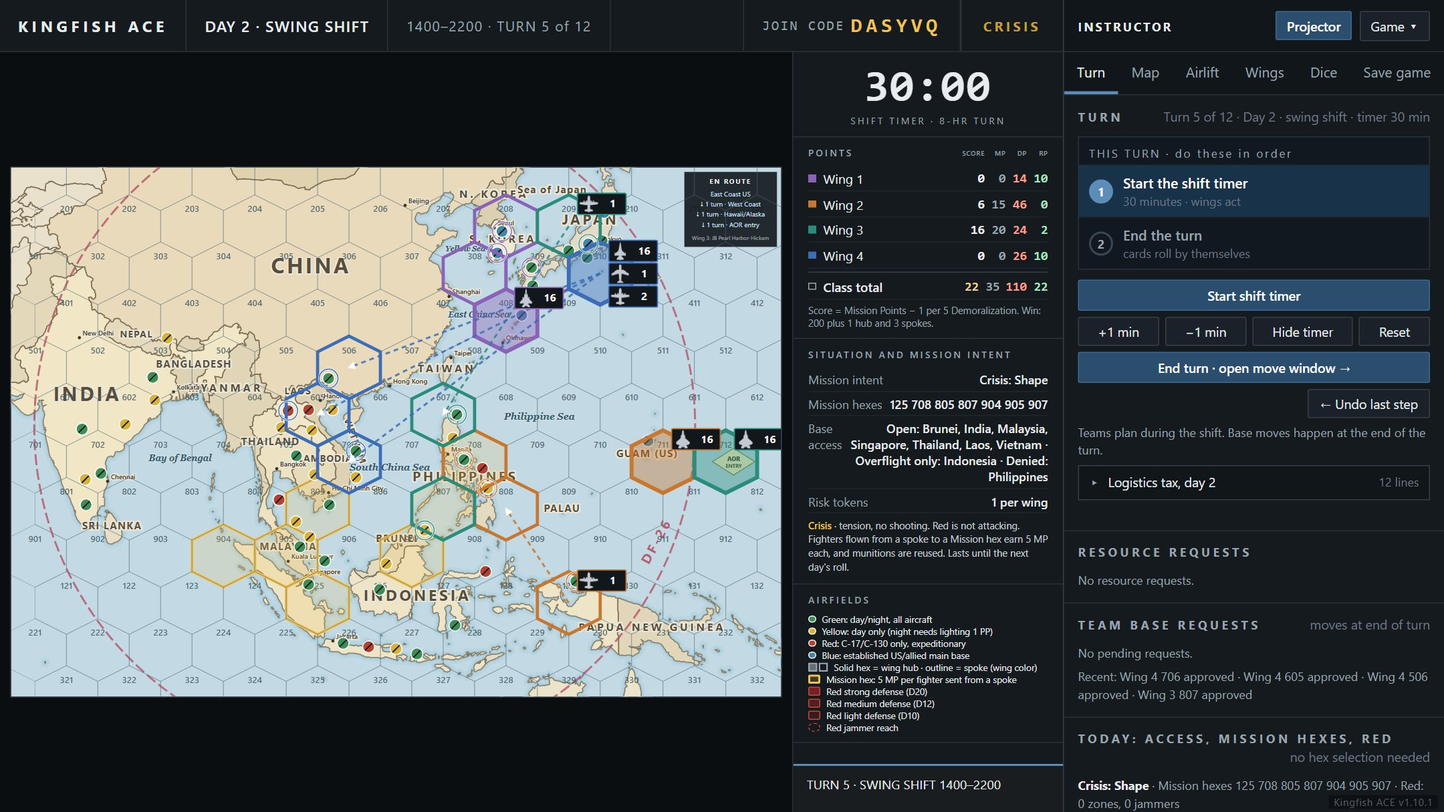
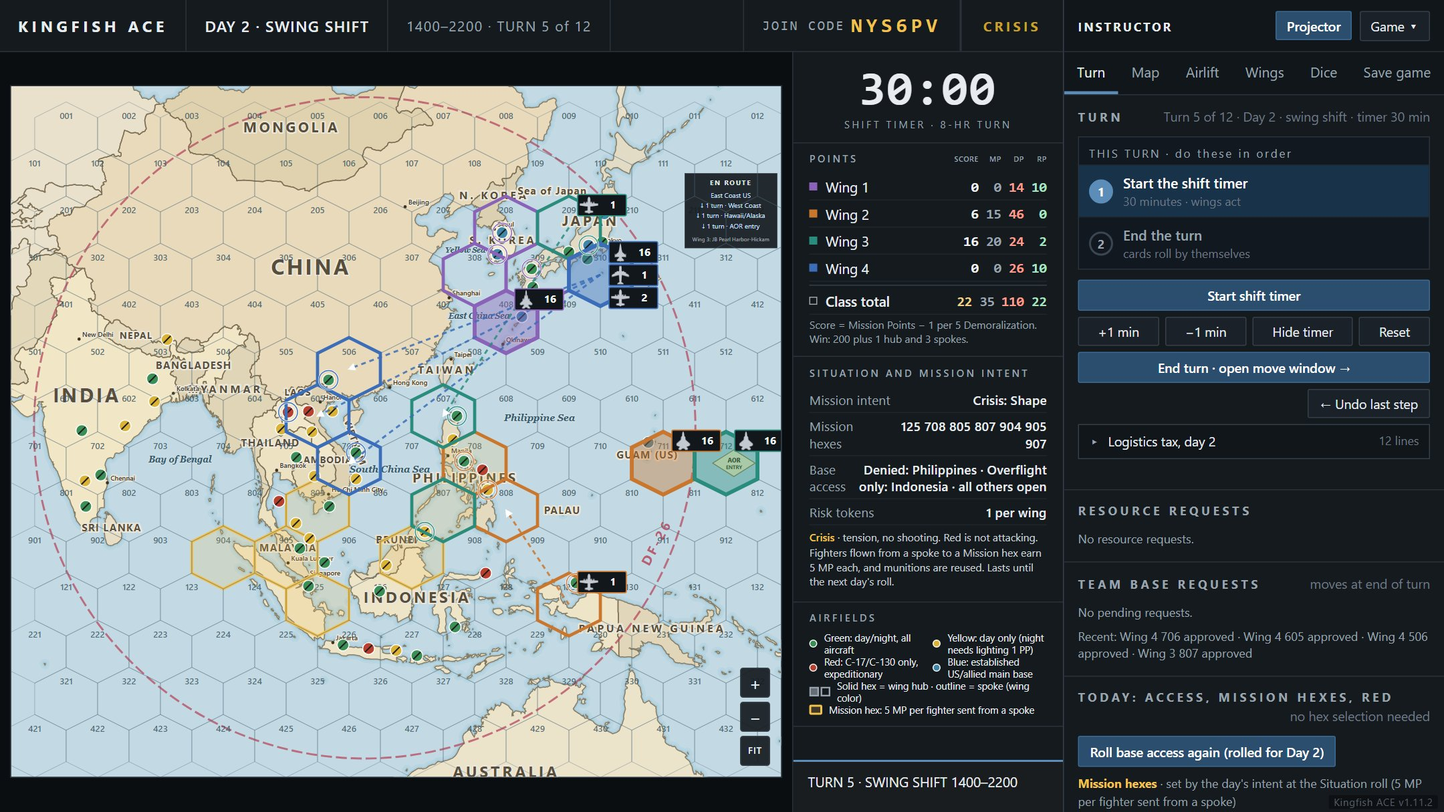
v1.11.2: declutter, taller instructor map, map key shows only what applies, new screenshots

diff --git a/g-c8c17171b7af6006.html b/g-c8c17171b7af6006.html
@@ -646,6 +646,8 @@ button:focus,.btn:focus{outline:none}button:focus-visible,.btn:focus-visible,sum
 .stabs button.kp,.ptabs button.kp,.rtabs button.kp,.wtabs button.kp,.zctl button.kp{background:#1F3347!important;color:#fff!important;transform:none!important;box-shadow:inset 0 -3px 0 #6FA3D1!important}
 .rl.kp{background:#22405C!important;transform:translateY(1px)}
 [onclick]:not(button):not(.btn):not(.rl).kp{filter:brightness(1.4);transform:translateY(1px)}
+#i-movehint,#i-today{display:none!important}
+.side .sbox.legend{display:grid;grid-template-columns:1fr 1fr;gap:0 12px;align-content:start}.side .sbox.legend>h4,.side .sbox.legend>.lgd,.side .sbox.legend>div:nth-child(6){grid-column:1/-1}.side .sbox.legend>div{min-width:0}
 </style>
 </head>
 <body>
@@ -998,7 +1000,7 @@ const TEAMS=[{id:'alpha',n:'Wing 1',full:'Kadena Air Base',hub:'Kadena AB',c:'#8
 const TM=Object.fromEntries(TEAMS.map(t=>[t.id,t]));
 const VIS=()=>TEAMS.filter(t=>S.show[t.id]!==false);   // wings shown on the projector board
 const SHIFTS=[['DAY SHIFT','0600–1400'],['SWING SHIFT','1400–2200'],['MID SHIFT','2200–0600']];
-const APP_VER='1.11.1';   // shown on every screen; bump on each release
+const APP_VER='1.11.2';   // shown on every screen; bump on each release
 const CLOCK_MIN=t=>(S&&S.timerMin)||30;     // owner 11-09: 30-minute turns by default; Game setup can change it
 const INTENT={crisis:[['Observe','708 805 807 905 907'],['Assure','308 309 705 706 805 905'],['Shape','125 708 805 807 904 905 907'],['Persuade','805 806 906 907']],
               conflict:[['Deter','308 309 705 706 805 905'],['Subdue','806 906'],['Compel','125 805 806 906'],['Eradicate','407 507 606']]};
@@ -1412,13 +1414,14 @@ function kimgDefs(){ if(__kdefs) return __kdefs; let s='', c='.kimg{display:inli
 //       by GPU transform, never redrawn, so zooming never blinks.
 const ZCTL='<div class="zctl" data-k="zctl"><button onclick="zoomBy(1.4)" title="Zoom in (+)">+</button><button onclick="zoomBy(1/1.4)" title="Zoom out (-)">&minus;</button><button class="zf" onclick="zoomFit()" title="Fit the whole map (0)">FIT</button></div>';
 const Z={k:1,x:0,y:0};
-function zre(){ document.querySelectorAll('.mstack').forEach(ms=>{ ms.__fitz=1; const v=Z.k===1&&!Z.x&&!Z.y?'':`translate(${Z.x.toFixed(1)}px,${Z.y.toFixed(1)}px) scale(${Z.k.toFixed(3)})`; if(ms.style.transform!==v) ms.style.transform=v; }); }
+function zre(){ document.querySelectorAll('.mstack').forEach(ms=>{ { const box=ms.parentElement, zc=box&&box.querySelector('.zctl'); if(zc){ const r=Math.max(8,box.clientWidth-(ms.offsetLeft+ms.offsetWidth)+12)+'px', b=Math.max(8,box.clientHeight-(ms.offsetTop+ms.offsetHeight)+12)+'px'; if(zc.style.right!==r) zc.style.right=r; if(zc.style.bottom!==b) zc.style.bottom=b; } } /* controls sit on the map's own corner */  ms.__fitz=1; const v=Z.k===1&&!Z.x&&!Z.y?'':`translate(${Z.x.toFixed(1)}px,${Z.y.toFixed(1)}px) scale(${Z.k.toFixed(3)})`; if(ms.style.transform!==v) ms.style.transform=v; }); }
 window.__zre=zre;
 function zClamp(ms){ const w=ms.offsetWidth, h=ms.offsetHeight; Z.x=Math.min(0,Math.max(w-w*Z.k,Z.x)); Z.y=Math.min(0,Math.max(h-h*Z.k,Z.y)); }
 function zApply(){ zre(); uiSave(); }
 function zoomAt(ms,cx,cy,f){ const r=ms.getBoundingClientRect(), l0=r.left-Z.x, t0=r.top-Z.y, px=cx-l0, py=cy-t0, k2=Math.max(1,Math.min(6,Z.k*f)); if(k2===Z.k) return; Z.x=px-(px-Z.x)*(k2/Z.k); Z.y=py-(py-Z.y)*(k2/Z.k); Z.k=k2; zClamp(ms); zApply(); }
 function zoomBy(f){ const box=document.querySelector('.mapbox'), ms=box&&box.querySelector('.mstack'); if(!ms) return; const b=box.getBoundingClientRect(); zoomAt(ms,b.left+b.width/2,b.top+b.height/2,f); }
 function zoomFit(){ Z.k=1; Z.x=0; Z.y=0; zApply(); }
+addEventListener('resize',()=>{ try{ zre(); }catch(x){} });
 addEventListener('wheel',e=>{ const box=e.target.closest&&e.target.closest('.mapbox'), ms=box&&box.querySelector('.mstack'); if(!ms) return; e.preventDefault(); zoomAt(ms,e.clientX,e.clientY,Math.exp(-e.deltaY*0.0016)); },{passive:false});
 let __zp=null, __zMoved=false;
 addEventListener('pointerdown',e=>{ const box=e.target.closest&&e.target.closest('.mapbox'), ms=box&&box.querySelector('.mstack'); if(!ms||e.target.closest('.zctl')) return; if(!(e.button===1||(e.button===0&&Z.k>1))) return; __zp={box,ms,sx:e.clientX,sy:e.clientY,x:Z.x,y:Z.y,on:false}; __zMoved=false; if(e.button===1) e.preventDefault(); },true);
@@ -1434,9 +1437,9 @@ function uiLoad(){ try{ return JSON.parse(localStorage.getItem(UIKEY)||'null'); 
 { const u=uiLoad(); if(u&&u.z&&u.z.k>=1&&u.z.k<=6){ Z.k=u.z.k; Z.x=u.z.x||0; Z.y=u.z.y||0; } }
 // R10.17 Window titles name the role and the turn, so windows are easy to tell apart on the taskbar.
 setInterval(()=>{ try{ if(MODE==='login') return; const role=MODE==='instructor'?'Instructor':MODE==='projector'?'Projector':(typeof WING_ID!=='undefined'&&WING_ID&&TM[WING_ID]?TM[WING_ID].n:'Wing'); const tt=`Kingfish ACE · ${role} · ${S.opening?'Planning':`Turn ${S.turn} of ${S.turns}`}`; if(document.title!==tt) document.title=tt; uiSave(); }catch(e){} },1000);
-function ensureStatic(doc){ try{ if(!doc||doc.getElementById('kfa-static')) return; const d=doc.createElement('div'); d.setAttribute('aria-hidden','true'); d.style.cssText='position:absolute;width:0;height:0;overflow:hidden;pointer-events:none'; d.innerHTML=`<svg xmlns="http://www.w3.org/2000/svg" width="0" height="0"><defs><g id="kfa-static">${STATIC}</g>${kimgDefs()}</defs></svg>`; { const st=doc.createElement('style'); st.id='kimg-css'; st.textContent=__kcss+`.mstack.vb0{aspect-ratio:1960/1350;width:min(100%,calc(100cqh * 1960 / 1350))}.mstack.vb1{aspect-ratio:${W}/${VH};width:min(100%,calc(100cqh * ${W} / ${VH}))}`; (doc.head||doc.documentElement).appendChild(st); } (doc.body||doc.documentElement).appendChild(d); }catch(e){} }
+function ensureStatic(doc){ try{ if(!doc||doc.getElementById('kfa-static')) return; const d=doc.createElement('div'); d.setAttribute('aria-hidden','true'); d.style.cssText='position:absolute;width:0;height:0;overflow:hidden;pointer-events:none'; d.innerHTML=`<svg xmlns="http://www.w3.org/2000/svg" width="0" height="0"><defs><g id="kfa-static">${STATIC}</g>${kimgDefs()}</defs></svg>`; { const st=doc.createElement('style'); st.id='kimg-css'; st.textContent=__kcss+`.mstack.vb0{aspect-ratio:1960/var(--vbh,1350);width:min(100%,calc(100cqh * 1960 / var(--vbh,1350)))}.mstack.vb1{aspect-ratio:${W}/${VH};width:min(100%,calc(100cqh * ${W} / ${VH}))}`; (doc.head||doc.documentElement).appendChild(st); } (doc.body||doc.documentElement).appendChild(d); }catch(e){} }
 function mapSvg(clickable,only){ const vis=only?[TM[only]]:VIS(); __plates=[]; let pl='', ac='';
-  const vb=only?[0,VY,W,VH]:[40,150,1960,1350];   // owner 11-10: the class board (instructor and projector) zooms to the play area; wing screens keep the full map
+  const vb=only?[0,VY,W,VH]:(window.__vb0||[40,150,1960,1350]);   // owner 11-10: the class board (instructor and projector) zooms to the play area; wing screens keep the full map
   let s=`<div class="mstack ${only?'vb1':'vb0'}"><svg viewBox="${vb.join(' ')}" preserveAspectRatio="xMidYMid meet" xmlns="http://www.w3.org/2000/svg"><defs><marker id="ar" viewBox="0 0 10 10" refX="8" refY="5" markerWidth="4" markerHeight="4" orient="auto"><path d="M0,0L10,5L0,10z" fill="#fff"/></marker></defs><clipPath id="mc"><rect y="${VY}" width="${W}" height="${VH}"/></clipPath><g clip-path="url(#mc)"><use href="#kfa-static"/>${`<g transform="translate(${(only?1795:1755)},${(only?40:162)})"><rect width="235" height="190" fill="#151A1F" fill-opacity=".92" stroke="#2A323B"/><text x="117" y="30" fill="#E8ECEF" font-size="17" font-weight="700" letter-spacing="3" text-anchor="middle">EN ROUTE</text>
      <text x="117" y="62" fill="#C9E1FF" font-size="17" text-anchor="middle">East Coast US</text><text x="117" y="88" fill="#C9E1FF" font-size="17" text-anchor="middle">↓ 1 turn · West Coast</text><text x="117" y="114" fill="#C9E1FF" font-size="17" text-anchor="middle">↓ 1 turn · Hawaii/Alaska</text><text x="117" y="140" fill="#C9E1FF" font-size="17" text-anchor="middle">↓ 1 turn · AOR entry</text><text x="117" y="172" fill="#AEB6BE" font-size="14" text-anchor="middle">Wing 3: JB Pearl Harbor-Hickam</text></g>`}`;
   for(const id of S.targets) if(HX[id]) s+=`<polygon class="tgt" points="${hexPts(HX[id])}"/>`;
@@ -1594,7 +1597,7 @@ function boardHtml0(clickable){
   return `<div class="score total"><i style="background:transparent;border:1px solid var(--mute)"></i>Class total<b style="display:flex;gap:14px"><span style="color:#F2D28A;min-width:34px;text-align:right">${sc}</span><span style="color:var(--mute)">${mp}</span><span style="color:${dp?'#FF9C8C':'var(--mute)'}">${dp}</span><span style="color:#A8E6C1">${rp}</span></b></div>`; })()}<div class="sbnote">Score = Mission Points − 1 per 5 Demoralization. Win: ${S.winPts||200} plus 1 hub and 3 spokes.</div></div>
    ${(()=>{ const o=S.orders, rows=[['Mission intent',o.intent],['Mission hexes',o.targets],['Base access',o.access],['Risk tokens',o.risk===undefined?'':o.risk+' per wing']].filter(r=>r[1]&&r[1]!=='—'&&r[1]!=='roll at start of day');
      return rows.length?`<div class="sbox ord"><h4>SITUATION AND MISSION INTENT</h4>${rows.map(r=>`<div><span>${r[0]}</span><span>${r[1]}</span></div>`).join('')}${sitRolled()?`<div class="sitx">${sitExplain()}</div>`:(!S.opening&&S.turn<(S.sitStart||3)?`<div class="sitx">Setting the theater: open bases and move forces. No Mission hexes yet. The first Situation roll is at the start of ${sitStartLabel()}.</div>`:'')}</div>`:`<div class="sbox ord"><h4>SITUATION AND MISSION INTENT</h4><div class="hint" style="border:0">${S.opening?`Wings are planning. The first Situation roll is at the start of ${sitStartLabel()}.`:S.turn<(S.sitStart||3)?`Setting the theater: open bases and move forces. No Mission hexes yet. The first Situation roll is at the start of ${sitStartLabel()}.`:'Waiting on the Situation roll.'}</div></div>`; })()}
-   <div class="sbox legend"><h4>AIRFIELDS</h4>${Object.entries(CHIPC).map(([k,c])=>`<div style="display:flex;gap:8px;align-items:center;font-size:12px;padding:1px 0"><i style="width:10px;height:10px;border-radius:50%;background:${c};display:inline-block;border:1px solid #fff;flex-shrink:0"></i>${CHIPN[k]}</div>`).join('')}<div style="display:flex;gap:8px;align-items:center;font-size:12px;padding:3px 0 1px"><svg width="26" height="12" viewBox="0 0 26 12" style="flex-shrink:0"><rect x="1" y="1" width="10" height="10" fill="#9AA5AF" fill-opacity=".6" stroke="#9AA5AF" stroke-width="2"/><rect x="15" y="1" width="10" height="10" fill="none" stroke="#9AA5AF" stroke-width="2"/></svg>Solid hex = wing hub · outline = spoke (wing color)</div><div class="lgd"><i style="border:3px solid #F2C14E;background:rgba(242,193,78,.18)"></i>Mission hex: 5 MP per fighter sent from a spoke</div><div class="lgd"><i style="background:rgba(200,40,40,.55);border:2px solid #C8463A"></i>Red strong defense (D20)</div><div class="lgd"><i style="background:rgba(200,40,40,.35);border:2px solid #C8463A"></i>Red medium defense (D12)</div><div class="lgd"><i style="background:rgba(200,40,40,.18);border:2px solid #C8463A"></i>Red light defense (D10)</div><div class="lgd"><i style="border:2px dashed #C8463A;border-radius:50%"></i>Red jammer reach</div></div>
+   <div class="sbox legend"><h4>AIRFIELDS</h4>${Object.entries(CHIPC).map(([k,c])=>`<div style="display:flex;gap:8px;align-items:center;font-size:12px;padding:1px 0"><i style="width:10px;height:10px;border-radius:50%;background:${c};display:inline-block;border:1px solid #fff;flex-shrink:0"></i>${CHIPN[k]}</div>`).join('')}<div style="display:flex;gap:8px;align-items:center;font-size:12px;padding:3px 0 1px"><svg width="26" height="12" viewBox="0 0 26 12" style="flex-shrink:0"><rect x="1" y="1" width="10" height="10" fill="#9AA5AF" fill-opacity=".6" stroke="#9AA5AF" stroke-width="2"/><rect x="15" y="1" width="10" height="10" fill="none" stroke="#9AA5AF" stroke-width="2"/></svg>Solid hex = wing hub · outline = spoke (wing color)</div>${(S.targets||[]).length?`<div class="lgd"><i style="border:3px solid #F2C14E;background:rgba(242,193,78,.18)"></i>Mission hex: 5 MP per fighter sent from a spoke</div>`:''}${(Object.keys(S.redz||{}).length||Object.keys(S.redJam||{}).length)?`<div class="lgd"><i style="background:rgba(200,40,40,.55);border:2px solid #C8463A"></i>Red strong defense (D20)</div><div class="lgd"><i style="background:rgba(200,40,40,.35);border:2px solid #C8463A"></i>Red medium defense (D12)</div><div class="lgd"><i style="background:rgba(200,40,40,.18);border:2px solid #C8463A"></i>Red light defense (D10)</div><div class="lgd"><i style="border:2px dashed #C8463A;border-radius:50%"></i>Red jammer reach</div>`:''}</div>
    <div class="ticker ${S.ticker.alarm?'':'calm'}">${S.ticker.text}</div></div></div></div>`;
 }
 let proj=null;
@@ -1607,12 +1610,18 @@ function fitSide(){ for(const sd of document.querySelectorAll('.side')){ const s
   const over=()=>{ let need=0; for(const c of sd.children) need+=c.scrollHeight+(c.offsetHeight-c.clientHeight); return need>sd.clientHeight+1; };
   sd.__fitz=1; let z=FIT_Z; sd.style.zoom=String(base*z); while(over()&&z>0.6){ z-=0.03; sd.style.zoom=String(base*z); } } }
 setInterval(()=>{ try{ fitSide(); }catch(e){} },250);
+function fitVb(){ if(MODE!=='instructor') return; const box=document.querySelector('#boardHost .mapbox'); if(!box) return; const cs=getComputedStyle(box);
+  const w=box.clientWidth-parseFloat(cs.paddingLeft)-parseFloat(cs.paddingRight)-2, h=box.clientHeight-parseFloat(cs.paddingTop)-parseFloat(cs.paddingBottom)-2; if(w<200||h<200) return;
+  const hh=Math.max(1350,Math.min(1760,Math.round(1960*h/w))); if(window.__vb0&&Math.abs(window.__vb0[3]-hh)<8) return; if(!window.__vb0&&hh===1350) return;
+  const y=Math.round(Math.max(-60,Math.min(1700-hh,825-hh/2))); window.__vb0=[40,y,1960,hh]; document.documentElement.style.setProperty('--vbh',hh); render(); }
+addEventListener('resize',()=>{ clearTimeout(window.__fvt); window.__fvt=setTimeout(()=>{ try{ fitVb(); }catch(e){} },150); });
+setTimeout(()=>{ try{ fitVb(); }catch(e){} },400);
 function renderNoSave(){ const sv=save; save=function(){}; try{ render(); } finally { save=sv; } }
 function render(){
   const host=document.getElementById('boardHost'); ensureStatic(document); const bh=boardHtml(true); setHTML(host,bh);
   host.querySelectorAll('.hex.click').forEach(p=>!p.__kb&&(p.__kb=1)&&p.addEventListener('click',()=>selectHex(p.dataset.id)));
   for(const id in WINS) if(WINS[id]&&!WINS[id].closed) wingRender(id);
-  if(proj&&!proj.closed){ const b=proj.document.getElementById('b'); if(b){ ensureStatic(proj.document); setHTML(b,bh); b.querySelectorAll('.hex.click').forEach(p=>!p.__kb&&(p.__kb=1)&&p.addEventListener('click',()=>selectHex(p.dataset.id))); } }
+  if(proj&&!proj.closed){ const b=proj.document.getElementById('b'); if(b){ ensureStatic(proj.document); setHTML(b,window.__vb0?bh.split(`viewBox="${window.__vb0.join(' ')}"`).join('viewBox="40 150 1960 1350"'):bh); b.querySelectorAll('.hex.click').forEach(p=>!p.__kb&&(p.__kb=1)&&p.addEventListener('click',()=>selectHex(p.dataset.id))); } }
   renderPanel(); save();
 }
 function renderClockOnly(){ const html=boardHtml(true); // cheap enough; keeps both windows in sync
@@ -1837,8 +1846,9 @@ function wingHtml(team,call,view){ const C=call||'opener.'; const T=TM[team], [s
   else al+=`<button class="btn p" ${Object.keys(f.cargo).length?'':'disabled title="Load something first"'} onclick="${C}wingPlot('${team}')">Plot the route on the map</button></div>`;
   al+='</div>';
   }
-  const fl=S.flights.filter(x=>x.team===team&&x.st!=='denied'&&!(x.st==='arrived'&&x.arrTurn<S.turn-2));
+  const __act=S.flights.filter(x=>x.team===team&&x.st!=='denied'&&x.st!=='arrived'), __arr=S.flights.filter(x=>x.team===team&&x.st==='arrived'&&x.arrTurn>=S.turn-2).slice(-3).reverse(), __more=S.flights.filter(x=>x.team===team&&x.st==='arrived'&&x.arrTurn>=S.turn-2).length-__arr.length; const fl=[...__act,...__arr];
   al+=fl.length?fl.map(x=>`<div class="kv" style="border-top:1px solid #222a31;padding:6px 0;align-items:center"><span>${x.n}× ${ACFT[x.acft].n} · ${x.path[0]} → ${x.path[x.path.length-1]} · ${x.pp} PP · ${x.pax} people</span><span class="hint" style="display:flex;gap:8px;align-items:center">${({requested:'waiting on instructor',approved:'leaves when the turn runs',enroute:(x.dist-x.moved)+' hexes to go',arrived:'arrived'})[x.st]}${x.moved===0&&(x.st==='approved'||x.st==='requested')?`<button class="btn sm ghost" onclick="${C}wingCancelFlight('${team}',${x.id})">Cancel</button>`:''}</span></div>`).join(''):'';
+  if(__more>0) al+=`<div class="hint" style="padding:4px 0 0">${__more} earlier arrival${__more>1?'s':''} not shown</div>`;
   al+='</div>';
   // fighters
   let fx=`<div class="sec"><h3>FIGHTERS <span class="r">${FTYPE[team]} · move ${FRANGE} hexes · combat D${FDIE}</span></h3>`;
@@ -1935,7 +1945,7 @@ function renderPanel(){
      <span class="sc"><button class="btn sm p" ${S.movesOpen?'':'disabled title="Open the move window first"'} onclick="decide(${q.id},true)">Approve</button><button class="btn sm d" onclick="decide(${q.id},false)">Deny</button></span></div>`).join(''):'<div class="hint">No pending requests.</div>')
      +(S.requests.some(q=>q.st!=='pending')?`<div class="hint" style="margin-top:6px">Recent: ${S.requests.filter(q=>q.st!=='pending').slice(-4).reverse().map(q=>`${TM[q.team].n} ${q.from?q.from+'→':''}${q.hex} ${q.st}`).join(' · ')}</div>`:'');
   const fold=(key,title,lines,alert)=>`<details class="fold" ${(window.__open||{})[key]?'open':''} ontoggle="(window.__open=window.__open||{})['${key}']=this.open"><summary><span class="${alert?'fbad':''}">${title}</span><em>${lines.length} line${lines.length===1?'':'s'}</em></summary><div>${lines.join('<br>')}</div></details>`;
-  document.getElementById('i-tax').innerHTML=S.taxReport?fold('tax'+S.taxReport.day,`Logistics tax, day ${S.taxReport.day}`,S.taxReport.lines,S.taxReport.lines.some(l=>/OUT OF|NO FUEL/.test(l))):'Logistics tax is collected automatically at the start of each game day.';
+  document.getElementById('i-tax').innerHTML=S.taxReport?fold('tax'+S.taxReport.day,`Logistics tax, day ${S.taxReport.day}`,S.taxReport.lines,S.taxReport.lines.some(l=>/OUT OF|NO FUEL/.test(l))):'';
   document.getElementById('b-conflict').style.display=S.orders.sit==='conflict'&&!S.opening?'':'none';
   document.getElementById('i-conflict').innerHTML=S.conflictReport&&S.conflictReport.turn===S.turn?fold('cf'+S.turn,`Conflict phase, turn ${S.turn}`,S.conflictReport.lines,S.conflictReport.lines.some(l=>/hit|STRIKE/.test(l))):(S.orders.sit==='conflict'&&!S.opening?'Conflict day: the Red attacks (intel warning, jamming and cyber, missile strikes) roll by themselves when the turn ends. Use this only to roll them again.':'');
   { const ia=document.getElementById('i-attacks'); if(ia) ia.innerHTML=atkInstrHtml(); }
@@ -2511,7 +2521,7 @@ function airfieldCountry(hex,af){ const k=hex+':'+(af||''); if(k in __ctry) retu
   return __ctry[k]=co; }
 function hexCountry(hex){ const k='h'+hex; if(k in __ctry) return __ctry[k]; const h=HX[hex]; return __ctry[k]=h?countryAt(h.x,h.y):null; }
 function accessOf(country){ if(!country||!ACCESS[country]||!S.access) return 'granted'; return S.access[country]||'granted'; }
-function accessText(){ const A=S.access||{}, g={granted:[],overflight:[],denied:[]}; for(const c in ACCESS) if(A[c]) g[A[c]].push(c); const p=[]; if(g.granted.length) p.push('Open: '+g.granted.join(', ')); if(g.overflight.length) p.push('Overflight only: '+g.overflight.join(', ')); if(g.denied.length) p.push('Denied: '+g.denied.join(', ')); return p.join(' · ')||'—'; }
+function accessText(){ const A=S.access||{}, g={granted:[],overflight:[],denied:[]}; for(const c in ACCESS) if(A[c]) g[A[c]].push(c); if(!Object.keys(A).length) return '—'; const p=[]; if(g.denied.length) p.push('Denied: '+g.denied.join(', ')); if(g.overflight.length) p.push('Overflight only: '+g.overflight.join(', ')); p.push(p.length?'all others open':'all countries open'); return p.join(' · '); }
 function forceAccess(){ if(S.accessDay===day()&&!confirmThen(`Base access was already rolled for Day ${day()}. Roll every country again now?`,()=>forceAccess(),'Roll again')) return; rollAllAccess(); }
 function rollAllAccess(quiet){ const dice=[], parts=[]; S.access={};
   for(const c in ACCESS){ const [acc,ovf]=ACCESS[c], r=d(10), st=r>=acc?'granted':r>ovf?'overflight':'denied'; S.access[c]=st;

diff --git a/index.html b/index.html
@@ -11,7 +11,7 @@ a{color:inherit}
 .brand{font-weight:700;letter-spacing:6px;font-size:15px}
 .bar nav a{color:var(--mute);text-decoration:none;font-size:14px;margin-left:26px}.bar nav a:hover{color:var(--ink)}
 .hero{position:relative;min-height:580px;padding:96px 0 48px;display:flex;align-items:center;overflow:hidden;border-bottom:1px solid var(--line)}
-.hero .bg{position:absolute;inset:0;background:url(board-v4.jpg?v=1101) right center/cover no-repeat;opacity:.5}
+.hero .bg{position:absolute;inset:0;background:url(board-v4.jpg?v=1112) right center/cover no-repeat;opacity:.5}
 .hero .shade{position:absolute;inset:0;background:linear-gradient(90deg,var(--bg) 0%,rgba(12,16,20,.94) 38%,rgba(12,16,20,.55) 70%,rgba(12,16,20,.35) 100%),linear-gradient(0deg,var(--bg) 0%,rgba(12,16,20,0) 30%)}
 .hero .wrap{position:relative;z-index:2;width:100%}
 .kicker{color:var(--gold);font-size:13px;letter-spacing:4px;font-weight:600}
@@ -80,17 +80,17 @@ footer{margin-top:0!important}
 <section id="overview">
  <div class="sh"><h2>What it does</h2></div>
  <div class="shots">
-  <figure><img src="shot-projector.jpg?v=1101" alt="Projector board: the Indo-Pacific hex map with every wing's bases, aircraft in flight and the class scoreboard" loading="lazy"><figcaption><b>Projector board</b><span>The whole class sees one map: bases, aircraft in flight, fighter sorties, the shift timer and every wing's score.</span></figcaption></figure>
-  <figure><img src="shot-wing.jpg?v=1101" alt="Wing screen: the wing's own map and its aircraft for the day, chalk by chalk" loading="lazy"><figcaption><b>Wing screen</b><span>Each team sees only its own wing. It picks spokes, rolls RFIs, loads chalks and plots routes.</span></figcaption></figure>
-  <figure><img src="shot-instructor.jpg?v=1101" alt="Instructor screen: the board with the turn, approval and dice controls" loading="lazy"><figcaption><b>Instructor controls</b><span>One screen runs the clock, approves requests, rolls the dice, runs the conflict phase and saves the game.</span></figcaption></figure>
+  <figure><img src="shot-projector.jpg?v=1112" alt="Projector board: the Indo-Pacific hex map with every wing's bases, aircraft in flight and the class scoreboard" loading="lazy"><figcaption><b>Projector board</b><span>The whole class sees one map: bases, aircraft in flight, fighter sorties, the shift timer and every wing's score.</span></figcaption></figure>
+  <figure><img src="shot-wing.jpg?v=1112" alt="Wing screen: the wing's own map and its aircraft for the day, chalk by chalk" loading="lazy"><figcaption><b>Wing screen</b><span>Each team sees only its own wing. It picks spokes, rolls RFIs, loads chalks and plots routes.</span></figcaption></figure>
+  <figure><img src="shot-instructor.jpg?v=1112" alt="Instructor screen: the board with the turn, approval and dice controls" loading="lazy"><figcaption><b>Instructor controls</b><span>One screen runs the clock, approves requests, rolls the dice, runs the conflict phase and saves the game.</span></figcaption></figure>
  </div>
  <div class="shots two">
-  <figure><img src="shot-load.jpg?v=1101" alt="Load planning: a C-17 chalk loaded chip by chip with people, equipment and supplies" loading="lazy"><figcaption><b>Load planning</b><span>Pick an aircraft, then load it chip by chip. The bar shows pallet positions and people against what the aircraft can carry.</span></figcaption></figure>
-  <figure><img src="shot-route.jpg?v=1101" alt="Route planning: the chalk's route plotted hex by hex with a pass or fail check for each rule" loading="lazy"><figcaption><b>Route planning</b><span>Click hexes to plot the route. Every rule is checked before launch: range, base access, field color, load and space on the ramp.</span></figcaption></figure>
+  <figure><img src="shot-load.jpg?v=1112" alt="Load planning: a C-17 chalk loaded chip by chip with people, equipment and supplies" loading="lazy"><figcaption><b>Load planning</b><span>Pick an aircraft, then load it chip by chip. The bar shows pallet positions and people against what the aircraft can carry.</span></figcaption></figure>
+  <figure><img src="shot-route.jpg?v=1112" alt="Route planning: the chalk's route plotted hex by hex with a pass or fail check for each rule" loading="lazy"><figcaption><b>Route planning</b><span>Click hexes to plot the route. Every rule is checked before launch: range, base access, field color, load and space on the ramp.</span></figcaption></figure>
  </div>
  <div class="shots two">
-  <figure><img src="shot-resources.jpg?v=1101" alt="Wing Resources tab: what a spoke needs for IOC, what the host nation provides, what was airlifted and what is still short" loading="lazy"><figcaption><b>Resources</b><span>For each spoke: what IOC needs, what the host nation provides, what has been airlifted in and what is still short.</span></figcaption></figure>
-  <figure><img src="shot-tasks.jpg?v=1101" alt="Wing Airfield tasks tab: the sixteen airfield tasks grouped as establish, defend, operate and maintain, with people assigned" loading="lazy"><figcaption><b>Airfield tasks</b><span>Sixteen tasks in four groups: establish, defend, operate and maintain. Wings assign people and equipment until the spoke reaches IOC.</span></figcaption></figure>
+  <figure><img src="shot-resources.jpg?v=1112" alt="Wing Resources tab: what a spoke needs for IOC, what the host nation provides, what was airlifted and what is still short" loading="lazy"><figcaption><b>Resources</b><span>For each spoke: what IOC needs, what the host nation provides, what has been airlifted in and what is still short.</span></figcaption></figure>
+  <figure><img src="shot-tasks.jpg?v=1112" alt="Wing Airfield tasks tab: the sixteen airfield tasks grouped as establish, defend, operate and maintain, with people assigned" loading="lazy"><figcaption><b>Airfield tasks</b><span>Sixteen tasks in four groups: establish, defend, operate and maintain. Wings assign people and equipment until the spoke reaches IOC.</span></figcaption></figure>
  </div>
 </section>
 
@@ -129,7 +129,7 @@ footer{margin-top:0!important}
 </main>
 
 <div class="band"><div class="wrap"><img src="moic.png?v=3" alt="MOIC"><p>Kingfish ACE is built for the 21A Maintenance Officer Intermediate Course. It follows the Kingfish ACE tabletop rulebook.</p></div></div>
-<footer><div class="wrap"><span>Kingfish ACE · 21A Maintenance Officer Intermediate Course</span><span>Game version <b id="gv" style="font-weight:600;color:var(--mute)">1.11.1</b></span></div></footer>
+<footer><div class="wrap"><span>Kingfish ACE · 21A Maintenance Officer Intermediate Course</span><span>Game version <b id="gv" style="font-weight:600;color:var(--mute)">1.11.2</b></span></div></footer>
 
 <div id="lb" onclick="this.classList.remove('on')"><span class="x">Close ✕</span><img alt=""></div>
 <div id="gate"><form onsubmit="tryGate();return false;">
